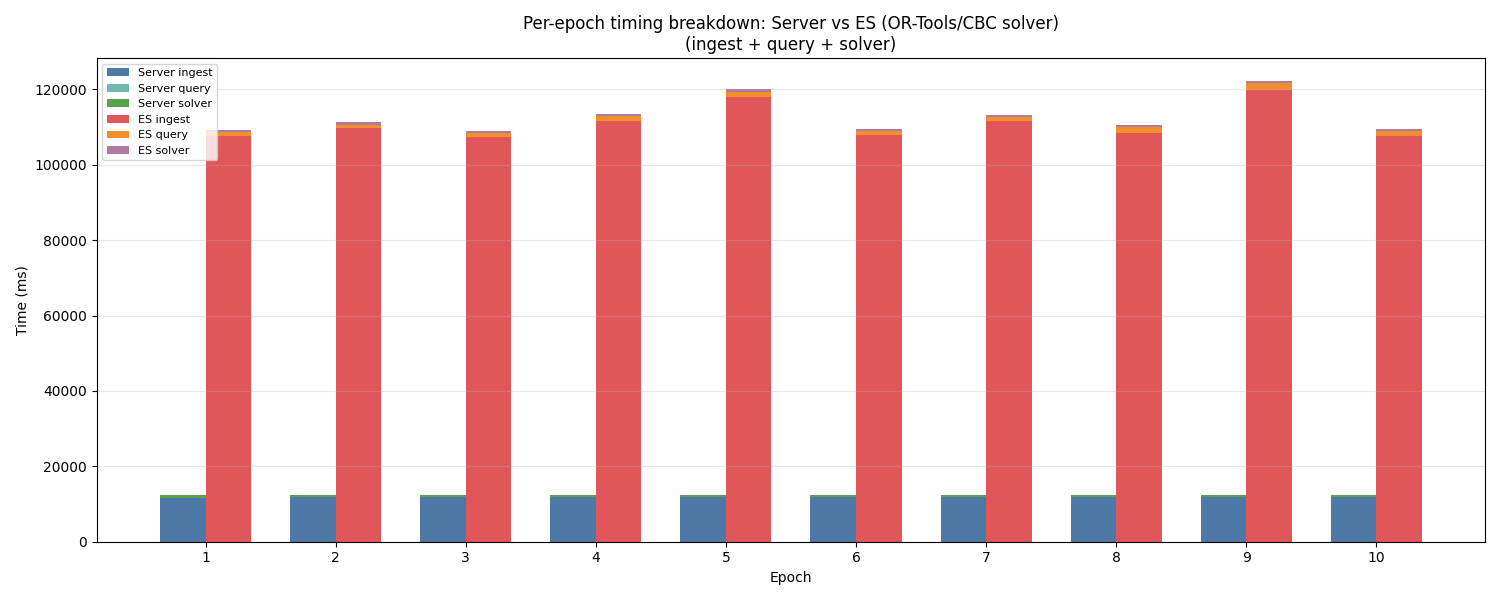
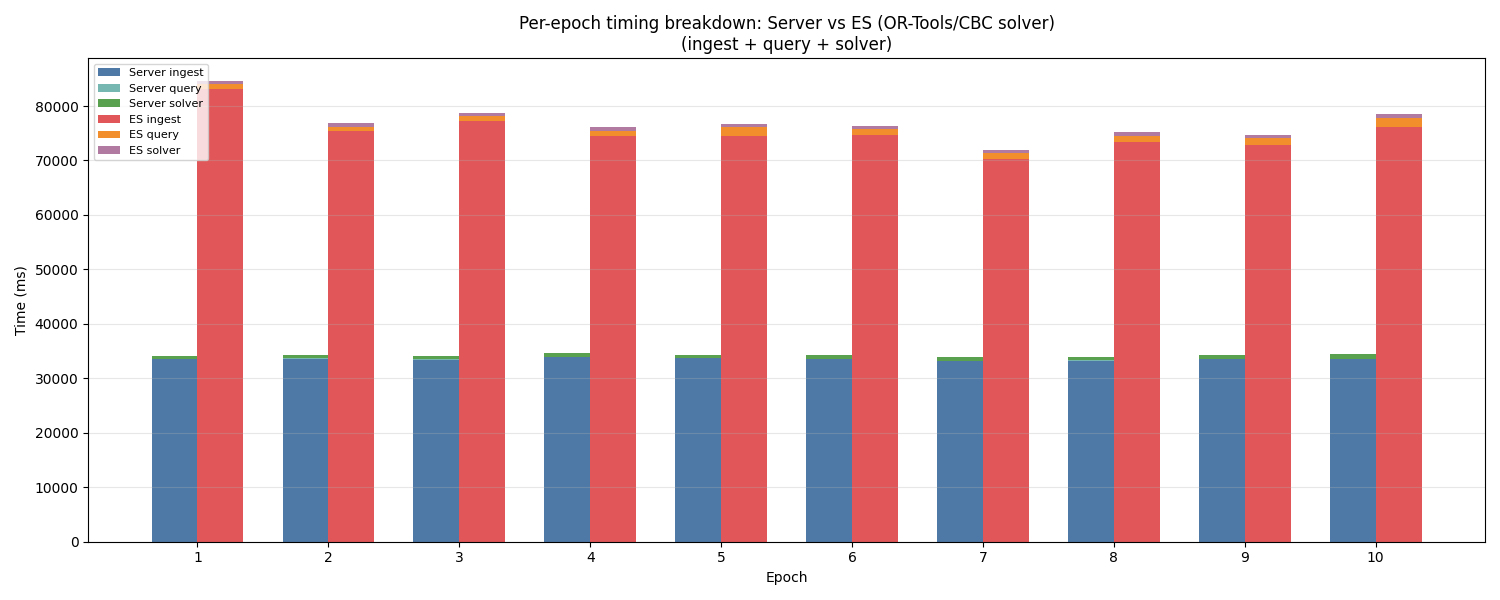
test time for multi index server, and adjust script correspondingly

diff --git a/scripts/rtt_sweep_common.py b/scripts/rtt_sweep_common.py
@@ -314,7 +314,7 @@ def ingest_server(
     retries: int,
     retry_backoff_s: float,
 ) -> None:
-    ingest_url = f"{server_url}/"
+    ingest_url = f"{server_url}/cluster-metrics"
     payload = {
         "epoch": epoch,
         "task": [row["task"] for row in batch],